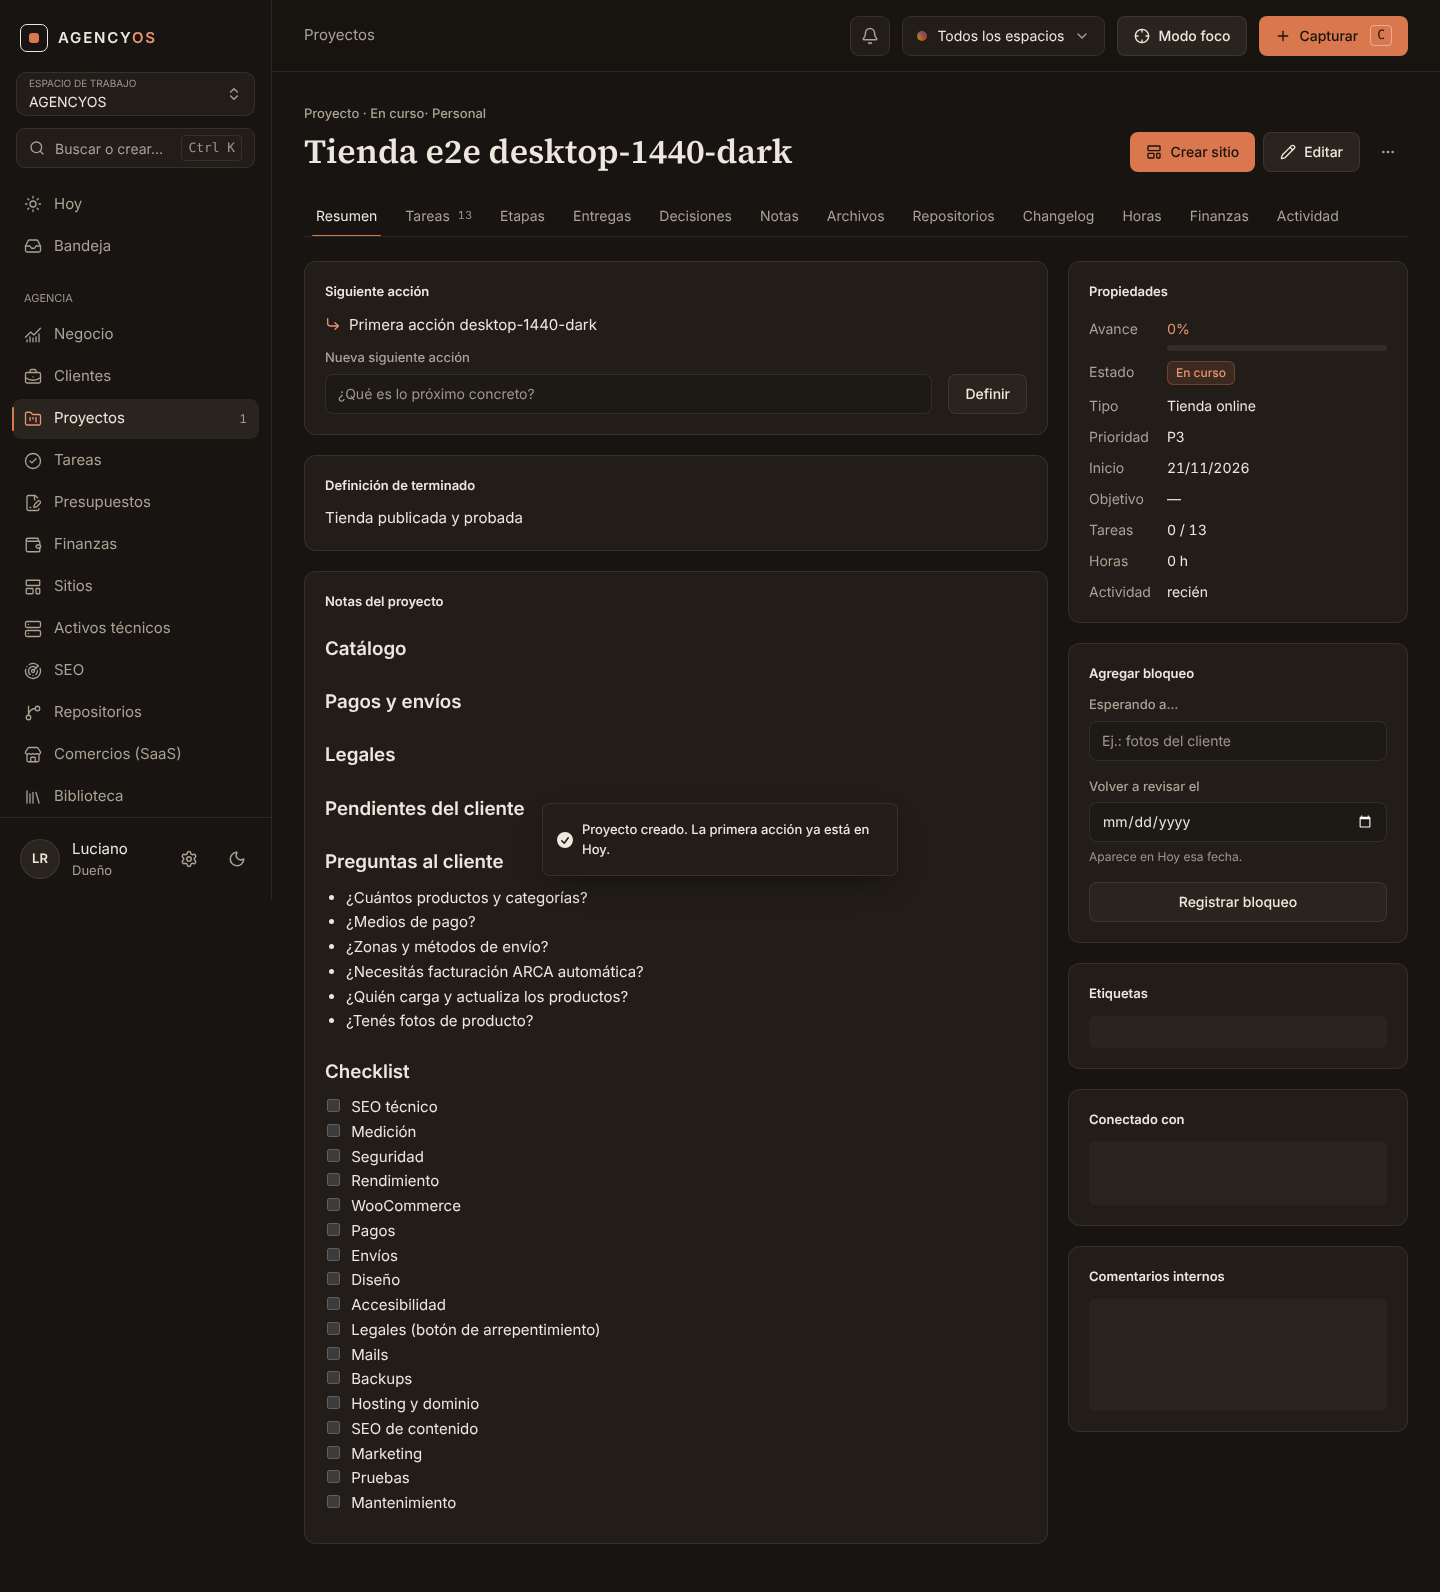
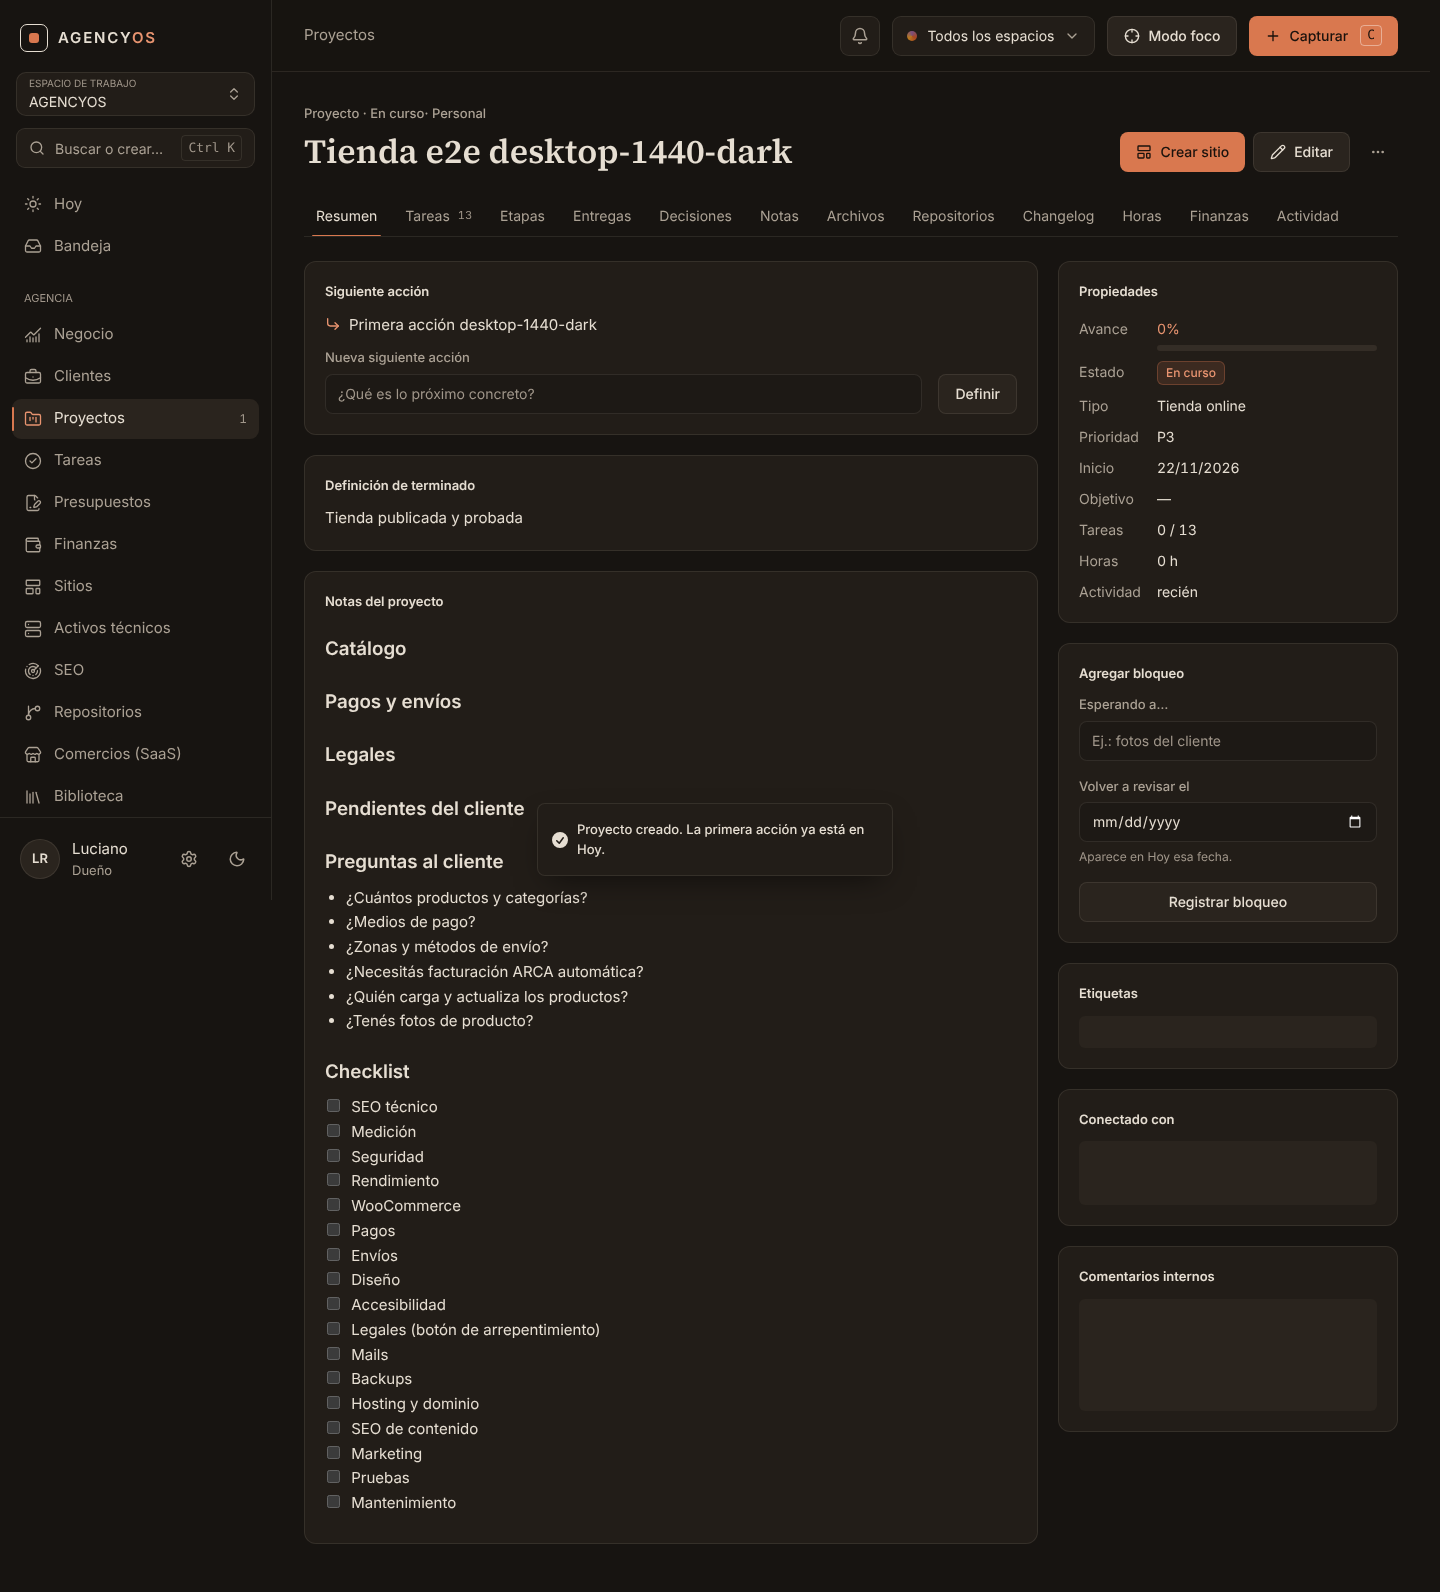
docs: ADR 0018 (movimiento y comodidad visual) y sección de movimiento en docs/07
Claude-Session: https://claude.ai/code/session_01JJJm3SstkFZVVNASwd7T8o

diff --git a/docs/adr/0018-movimiento-y-comodidad.md b/docs/adr/0018-movimiento-y-comodidad.md
@@ -1,0 +1,30 @@
+# ADR 0018 · Movimiento y comodidad visual
+
+**Estado:** aceptada (22/11/2026) · **Contexto:** Luciano pidió una interfaz fluida, suave y que no canse la vista.
+
+## Decisión
+- **Sin librerías de animación.** Todo es CSS (keyframes + transiciones) y View Transitions del navegador. No suma JS inicial
+  (presupuesto < 170 KB por pantalla).
+- **Tokens** en `packages/ui/src/tokens.css`: `--ease-out` (entradas), `--ease-in` (salidas), `--ease-in-out`, `--ease-spring`
+  (solo elementos chicos: tildes, íconos), `--dur-1/2/3` (120/200/320 ms). Las salidas son más cortas que las entradas.
+- **Por defecto**, todo lo interactivo (enlaces, botones, campos, opciones) cambia color, borde y sombra en 160 ms
+  (`@layer base` en `globals.css`); las utilidades de Tailwind lo pisan cuando hace falta.
+- **Patrones** (clases en `globals.css`):
+  - `ag-overlay` / `ag-sheet`: hojas y modales con entrada y salida (Radix espera la animación de salida). En el celular
+    la hoja sube desde abajo y se cierra arrastrándola hacia abajo; en desktop aparece con un zoom leve.
+  - `ag-menu`: menús que crecen desde su botón; `ag-palette`: paleta Ctrl+K.
+  - `ag-progress`: barra fina al navegar, solo si la pantalla tarda más de 120 ms (`components/shell/nav-progress.tsx`).
+  - `stagger` (listas y grillas: los primeros 10 en cascada), `rise` (un elemento), `lift` (tarjetas que se pueden abrir,
+    solo con mouse), `bar-in` / `bar-up` (barras y gráficos), `check-pop` / `check-ring` (completar), `grow-y`, `tab-pop`.
+  - Cambio de tema con fundido de la página (`switchTheme`, View Transitions).
+- **Descanso visual:** superficies apenas cálidas en el tema claro (`#fffdf9`, no blanco puro), texto del tema oscuro un
+  punto menos brillante (`#e6ded2`, 13,8:1), fondo de los modales más liviano, pulso de carga lento y de poca amplitud,
+  barras de scroll finas en tonos de la paleta.
+- **Accesibilidad:** con `prefers-reduced-motion` todo queda instantáneo (incluida la barra de progreso y el levante de
+  tarjetas). Ninguna animación transmite información por sí sola.
+
+## Reglas para lo nuevo
+- Usar las clases y tokens de arriba; no inventar duraciones sueltas. Nada que se mueva más de ~8 px ni dure más de
+  ~400 ms (salvo barras que crecen). Nada que rebote en elementos grandes.
+- Animar `opacity` y `transform` (no `width`/`height`/`top`): no reacomodan la página.
+- Las listas largas no se animan enteras: `stagger` solo escalona los primeros 10.

diff --git a/docs/07-ux-ui.md b/docs/07-ux-ui.md
@@ -57,6 +57,11 @@ Cada módulo tiene un **acento** propio dentro de la paleta. Se usa en el icono 
 - **Paleta de comandos:** resultados agrupados, previsualización a la derecha en desktop, acciones con atajos visibles.
 - **Gráficos:** SVG propios; ejes y leyendas en Inter con cifras tabulares; tooltips accesibles; siempre con tabla alternativa ("Ver datos").
 
+### 3.1 Movimiento (ADR 0018)
+Entradas suaves y salidas rápidas con los tokens `--ease-*` y `--dur-*`; hojas que suben y se cierran arrastrando en el
+celular; menús desde su botón; barra de progreso al navegar; listas en cascada (`stagger`); tarjetas que se levantan
+(`lift`); completar una tarea con tilde que salta. Todo en CSS, sin librerías; con movimiento reducido, instantáneo.
+
 ## 4. Pantallas clave (dirección)
 
 - **Hoy:** idéntico en espíritu a `AGENCYOS-vista-hoy-desktop.png` y `-celular.png`.
